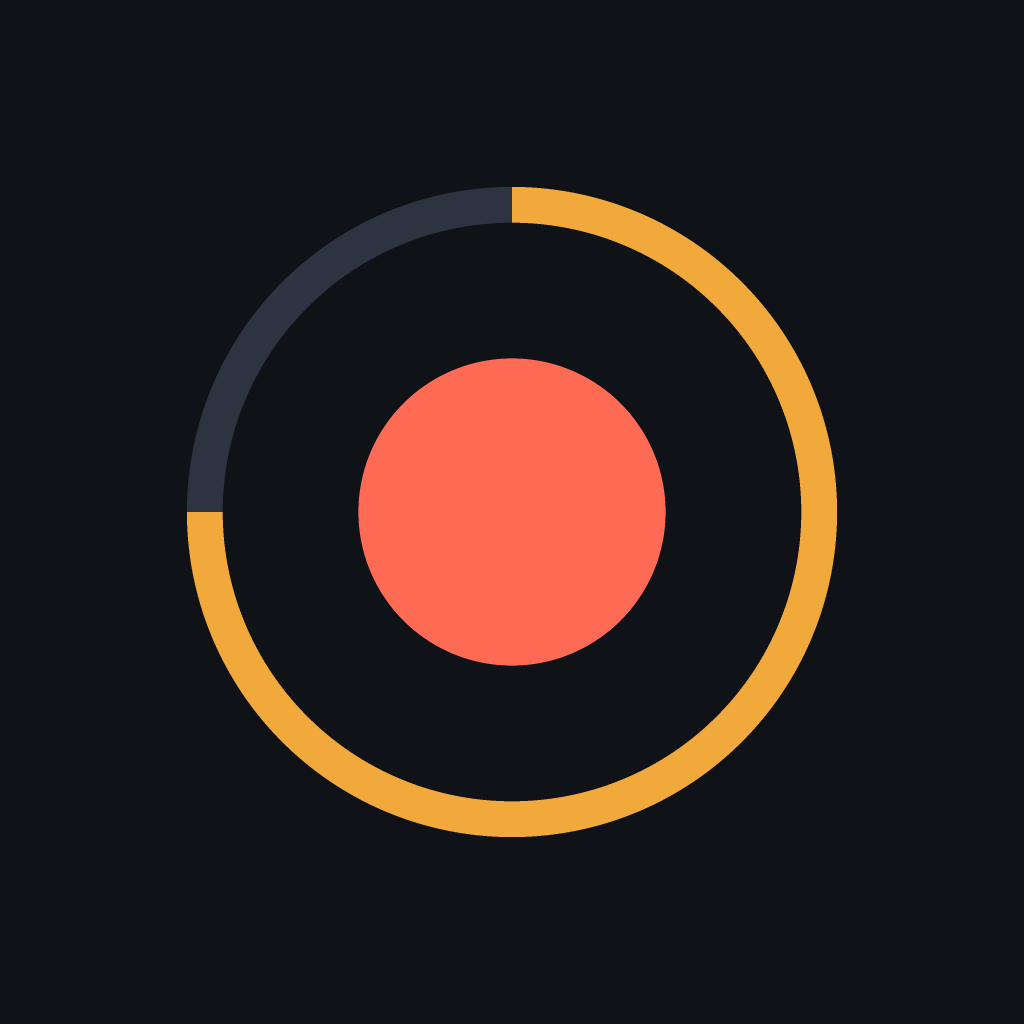
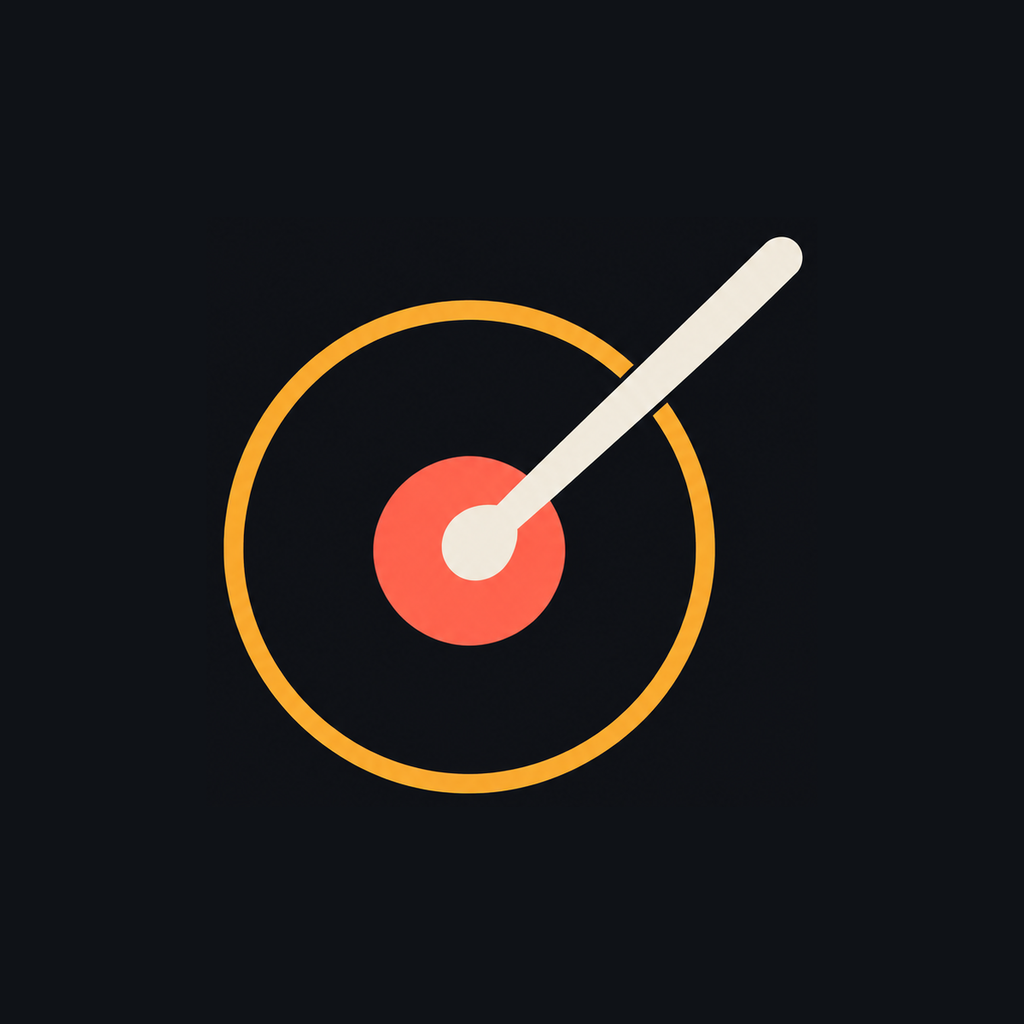
앱 아이콘 교체 (GPT로 만든 스틱·첫 박 아이콘, 가운데 맞춤)

Changed region(s): [[0.1562, 0.1562, 0.8438, 0.8438]]

diff --git a/index.html b/index.html
@@ -1750,7 +1750,7 @@ function renderSettings() {
     <p class="note">불러온 셋리스트는 지금 목록에 추가돼요 (기존 것은 그대로). 악보 PDF는 백업 파일에 들어가지 않으니 원본 PDF는 따로 보관하세요.</p>
     <div class="sec-t">조작</div>
     <div class="keys"><span><kbd>SPACE</kbd> 재생</span><span><kbd>→</kbd> 다음</span><span><kbd>←</kbd> 이전</span><span><kbd>↑↓</kbd> BPM</span><span>밀기 곡 이동</span><span>± 길게 5씩</span></div>
-    <p class="note" style="color:var(--dim)">카운트인 v2.1 · 데이터는 이 기기에만 저장돼요</p>
+    <p class="note" style="color:var(--dim)">카운트인 v2.2 · 데이터는 이 기기에만 저장돼요</p>
   </div>`;
   $('#sVol').oninput = e => { S.volume = +e.target.value; if (E.master) E.master.gain.value = S.volume; save(); };
   $('#sSub').oninput = e => { S.subVol = +e.target.value; save(); };

diff --git a/sw.js b/sw.js
@@ -1,4 +1,4 @@
-const V = 'countin-v12';
+const V = 'countin-v13';
 const FILES = ['./', './index.html', './manifest.webmanifest', './icon-192.png', './icon-512.png', './apple-touch-icon.png', './vendor/pdf.min.js', './vendor/pdf.worker.min.js', './vendor/pdf-lib.min.js', './vendor/peerjs.min.js'];
 self.addEventListener('install', e => { e.waitUntil(caches.open(V).then(c => c.addAll(FILES))); self.skipWaiting(); });
 self.addEventListener('activate', e => { e.waitUntil(caches.keys().then(ks => Promise.all(ks.filter(k => k !== V).map(k => caches.delete(k))))); self.clients.claim(); });
